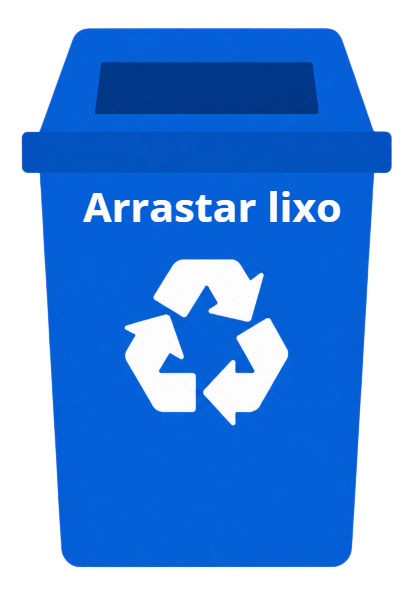
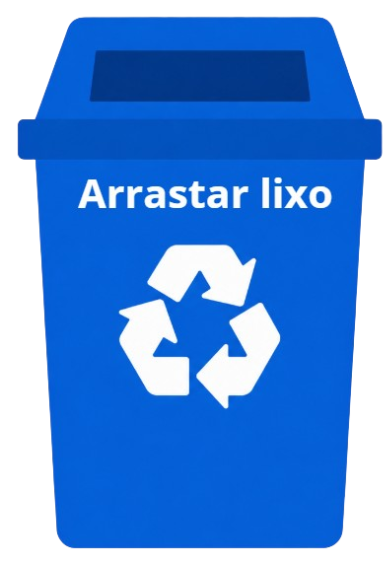
Responsividade
Coloquei responsividade de notebook

diff --git a/curso/Parte2curso/index.html b/curso/Parte2curso/index.html
@@ -19,7 +19,7 @@
                         </div>
                         <div id="selecao">
                             <div class="lixos"><a href=""><img class="lixeiras" src="imagens/lixeira.preta.png" alt=""></a></div>
-                            <div class="lixos"><a href="../lixeirafuncional/lixeirafuncional.html"><img class="lixeiras" src="imagens/image-Photoroom (8).png" alt=""></a></div>
+                            <div class="lixos"><a href="../lixeirafuncional/lixeirafuncional.html"><img class="lixeiras" src="imagens/arrastarlixo.png" alt=""></a></div>
                             <div class="lixos"><a href="../Selecaodelixo/index.html"><img class="lixeiras" src="imagens/selecaodelixos.png" alt=""></a></div>
                         </div>
                     </div>
@@ -36,12 +36,12 @@
                         </p>
                         <div id="videos">
                             <iframe 
-                                width="360px" height="200px" src="https://www.youtube.com/embed/xcyL9niACcU?si=is3TjGmcYdPrdZCI" 
+                                src="https://www.youtube.com/embed/xcyL9niACcU?si=is3TjGmcYdPrdZCI" 
                                 title="YouTube video player" frameborder="0" allow="accelerometer; autoplay; clipboard-write; encrypted-media; gyroscope; 
                                 picture-in-picture; web-share" referrerpolicy="strict-origin-when-cross-origin" allowfullscreen>
                             </iframe>
                             <iframe 
-                                width="360px" height="200px" id="divisao_video" src="https://www.youtube.com/embed/1zJd9xcYl_o?si=rZnNWNrdK5NRrFsk" title="YouTube video player" 
+                                id="divisao_video" src="https://www.youtube.com/embed/1zJd9xcYl_o?si=rZnNWNrdK5NRrFsk" title="YouTube video player" 
                                 frameborder="0" allow="accelerometer; autoplay; clipboard-write; encrypted-media; gyroscope; picture-in-picture; web-share" 
                                 referrerpolicy="strict-origin-when-cross-origin" allowfullscreen>
                             </iframe>
@@ -52,7 +52,6 @@
         </section>
         <section>
             <div id="fundo_destino_materiais">
-                
                 <div id="fundo_destino_dentro">
                     <div id="destino">
                         <div id="titulo">
@@ -64,7 +63,7 @@
                                 onde passam por triagem e podem ser reciclados, reutilizados ou transformados em novos produtos. 
                                 Já os resíduos que não podem ser aproveitados recebem uma destinação adequada, como aterros sanitários.
                             </p>
-                            <iframe width="360px" height="200px" src="https://www.youtube.com/embed/s8pEBnUFJfI?si=lskchsRZGsYateW5" 
+                            <iframe src="https://www.youtube.com/embed/s8pEBnUFJfI?si=lskchsRZGsYateW5" 
                             title="YouTube video player" frameborder="0" allow="accelerometer; autoplay; clipboard-write; 
                             encrypted-media; gyroscope; picture-in-picture; web-share" referrerpolicy="strict-origin-when-cross-origin" allowfullscreen>
 
@@ -77,7 +76,7 @@
        <section>
             <div id="impactos">
                 <div id="titulo">
-                    <img src="/Parte2curso/imagens/Simboloreciclagem.png" alt="">
+                    <img src="imagens/simboloreciclagempreto.png" alt="">
                     <h1>Impactos ambientais da reciclagem</h1>
                 </div>
                 <div id="estatisticas">

diff --git a/curso/Parte2curso/css/style.css b/curso/Parte2curso/css/style.css
@@ -45,7 +45,7 @@
 #fundo_coleta_seletiva #fundo_branco_coleta_seletiva #selecao_jogo #titulo #placa{
     width: 350px;
     height: 100%;
-    margin-left: 250px;
+    margin: 0 auto;
     background-image: url(../imagens/placa.png);
     background-repeat: no-repeat;
     background-size: cover;
@@ -111,7 +111,7 @@ transform: scale(1.1,1.1);
 }
 
 #fundo_coleta_seletiva #fundo_branco_coleta_seletiva #coleta_seletiva h1{
-    font-size: 50px;
+    font-size: 40px;
     padding-left: 10px;
 }
 
@@ -129,6 +129,8 @@ transform: scale(1.1,1.1);
 }
 
 #fundo_coleta_seletiva #fundo_branco_coleta_seletiva #coleta_seletiva #videos iframe{
+    width: 45%;
+    height: 200px;
     border: 1px solid black
 }
 
@@ -186,17 +188,20 @@ transform: scale(1.1,1.1);
 }
 
 #fundo_destino_materiais #fundo_destino_dentro #destino iframe{
+    width: 22%;
+    height: 200px;
     margin-left: 25px;
     margin-top: 100px;
     border: 1px black solid
+
 }
 
 #imagem{
     position: absolute;
-    width: 1000px;
-    height: 800px;
-    top: 640px;
-    left: 850px;
+    width: 800px;
+    height: 760px;
+    top: 665px;
+    left: 1050px;
 
 }
 
@@ -208,7 +213,7 @@ transform: scale(1.1,1.1);
 }
 
 #impactos #titulo{
-    padding-left: 33%;
+    padding-left: 32%;
     display: flex;
     flex-direction: row;
 }
@@ -332,4 +337,61 @@ transform: scale(1.1,1.1);
     font-size: 20px;
     color: black;
     text-align: center;
+}
+
+@media(max-width:1366px) {
+    #fundo_coleta_seletiva #fundo_branco_coleta_seletiva #coleta_seletiva #videos iframe{
+    width: 40%;
+    height: 150px;
+    border: 1px solid black
+}
+    #fundo_destino_materiais #fundo_destino_dentro #destino iframe{
+    width: 22%;
+    height: 150px;
+    margin-left: 25px;
+    margin-top: 100px;
+    border: 1px black solid
+
+}
+
+#imagem{
+    position: absolute;
+    width: 680px;
+    height: 760px;
+    top: 665px;
+    left: 650px;
+
+}
+
+#impactos #estatisticas .caixas a p{
+    width: 80%;
+    padding-top: 20px;
+    padding-left: 35px;
+    font-size: 18px;
+    color: white;
+}
+
+#impactos #estatisticas2 .caixas a p{
+    width: 80%;
+    padding-top: 20px;
+    padding-left: 35px;
+    font-size: 18px;
+    color: white;
+}
+
+#impactos #titulo{
+    padding-left: 26%;
+    display: flex;
+    flex-direction: row;
+}
+
+#panorama #titulo{
+    padding-top: 10px;
+    padding-left: 27%;
+    display: flex;
+    flex-direction: row;
+}
+
+
+
 }

diff --git a/curso/lixeirafuncional/css/lixeirafuncional.css b/curso/lixeirafuncional/css/lixeirafuncional.css
@@ -14,10 +14,11 @@ body{
 
 
 #lixeiras{
+    border: 1px solid black;
     position: relative;
-    width: 70%;
+    width: 57%;
+    margin: 0 auto;
     height: 300px;
-    padding-left: 20.5%;
     margin-top: 200px;
     display: flex;
     flex-direction: row;
@@ -28,7 +29,7 @@ body{
     width: 1220px;
     height: 600px;
     top: 0px;
-    left: 330px;
+    left: 340px;
 }
 
 #lixeiras .lixeirareciclavel{
@@ -52,10 +53,11 @@ body{
 }
 
 #lixos{
+    border: black solid 1px;
     position: relative;
-    width: 69%;
+    width: 70%;
     height: 183px;
-    padding-left: 18%;
+    margin: 0 auto;
     margin-top: 250px;
     display: flex;
     flex-direction: row;
@@ -80,13 +82,10 @@ body{
    transform: scale(1.1,1.1);
 }
 
-#botao{
-    position: absolute;
-    top: 560px;
-    left: 230px;
+#botao{ 
     display: flex;
     flex-direction: column;
-    z-index: 1;
+
     
 }
 
@@ -99,3 +98,55 @@ body{
     width: 150px;
     height: 40px;
 }
+
+@media(max-width:1366px) {
+    #lixeiras{
+    border: 1px solid black;
+    position: relative;
+    width: 57%;
+    margin: 0 auto;
+    height: 300px;
+    margin-top: 150px;
+    display: flex;
+    flex-direction: row;
+}
+
+    #lixeiras .lixeirareciclavel .lixeirasespecifica{
+    width: 140px;
+    height: 300px;
+}
+
+    #grade{
+    position: absolute;
+    width: 950px;
+    height: 600px;
+    top: 0px;
+    left: 205px;
+}
+
+#lixos{
+    border: black solid 1px;
+    position: relative;
+    width: 70%;
+    height: 183px;
+    margin: 0 auto;
+    margin-top: 120px;
+    display: flex;
+    flex-direction: row;
+    align-items: center;
+}
+
+#sacola{
+    position: absolute;
+    width: 100%;
+    height: 302px;
+    top: 316px;
+    left: 0;
+    z-index: 0;
+}
+}
+
+
+
+
+

diff --git a/curso/lixeirafuncional/lixeirafuncional.html b/curso/lixeirafuncional/lixeirafuncional.html
@@ -21,17 +21,19 @@
             </section>
             <section>
                 <img id="sacola" src="imagens/sacola.png" alt="">
-                <div id="botao">
-                    <button id="resetarlixos">Resete os lixos</button>
-                    <a href="../Parte2curso/index.html"><button class="botoes">Voltar</button></a>
-                    <a href="../Selecaodelixo/index.html"><button class="botoes">Outro jogo</button></a>
-                </div>
                 <div id="lixos">
+                    <div id="botao">
+                        <button id="resetarlixos">Resete os lixos</button>
+                        <a href="../Parte2curso/index.html"><button class="botoes">Voltar</button></a>
+                        <a href="../Selecaodelixo/index.html"><button class="botoes">Outro jogo</button></a>
+                    </div>
                     <div draggable="true" class="lixosplasticos" id="lixo3"><img class="lixosespecificos" src="imagens/papel.png" alt=""></div>
                     <div draggable="true" class="lixosplasticos" id="lixo1"><img class="lixosespecificos" src="imagens/vidro.png" alt=""></div>
                     <div draggable="true" class="lixosplasticos" id="lixo4"><img class="lixosespecificos" src="imagens/metais.png" alt=""></div>
                     <div draggable="true" class="lixosplasticos" id="lixo5"><img class="lixosespecificos" src="imagens/organico.png" alt=""></div>
                     <div draggable="true" class="lixosplasticos" id="lixo2"><img class="lixosespecificos" src="imagens/garrafa.png" alt=""></div>
+                
+                
                 </div>
             </section>
             <script src="lixeirafunciona.js"></script>
